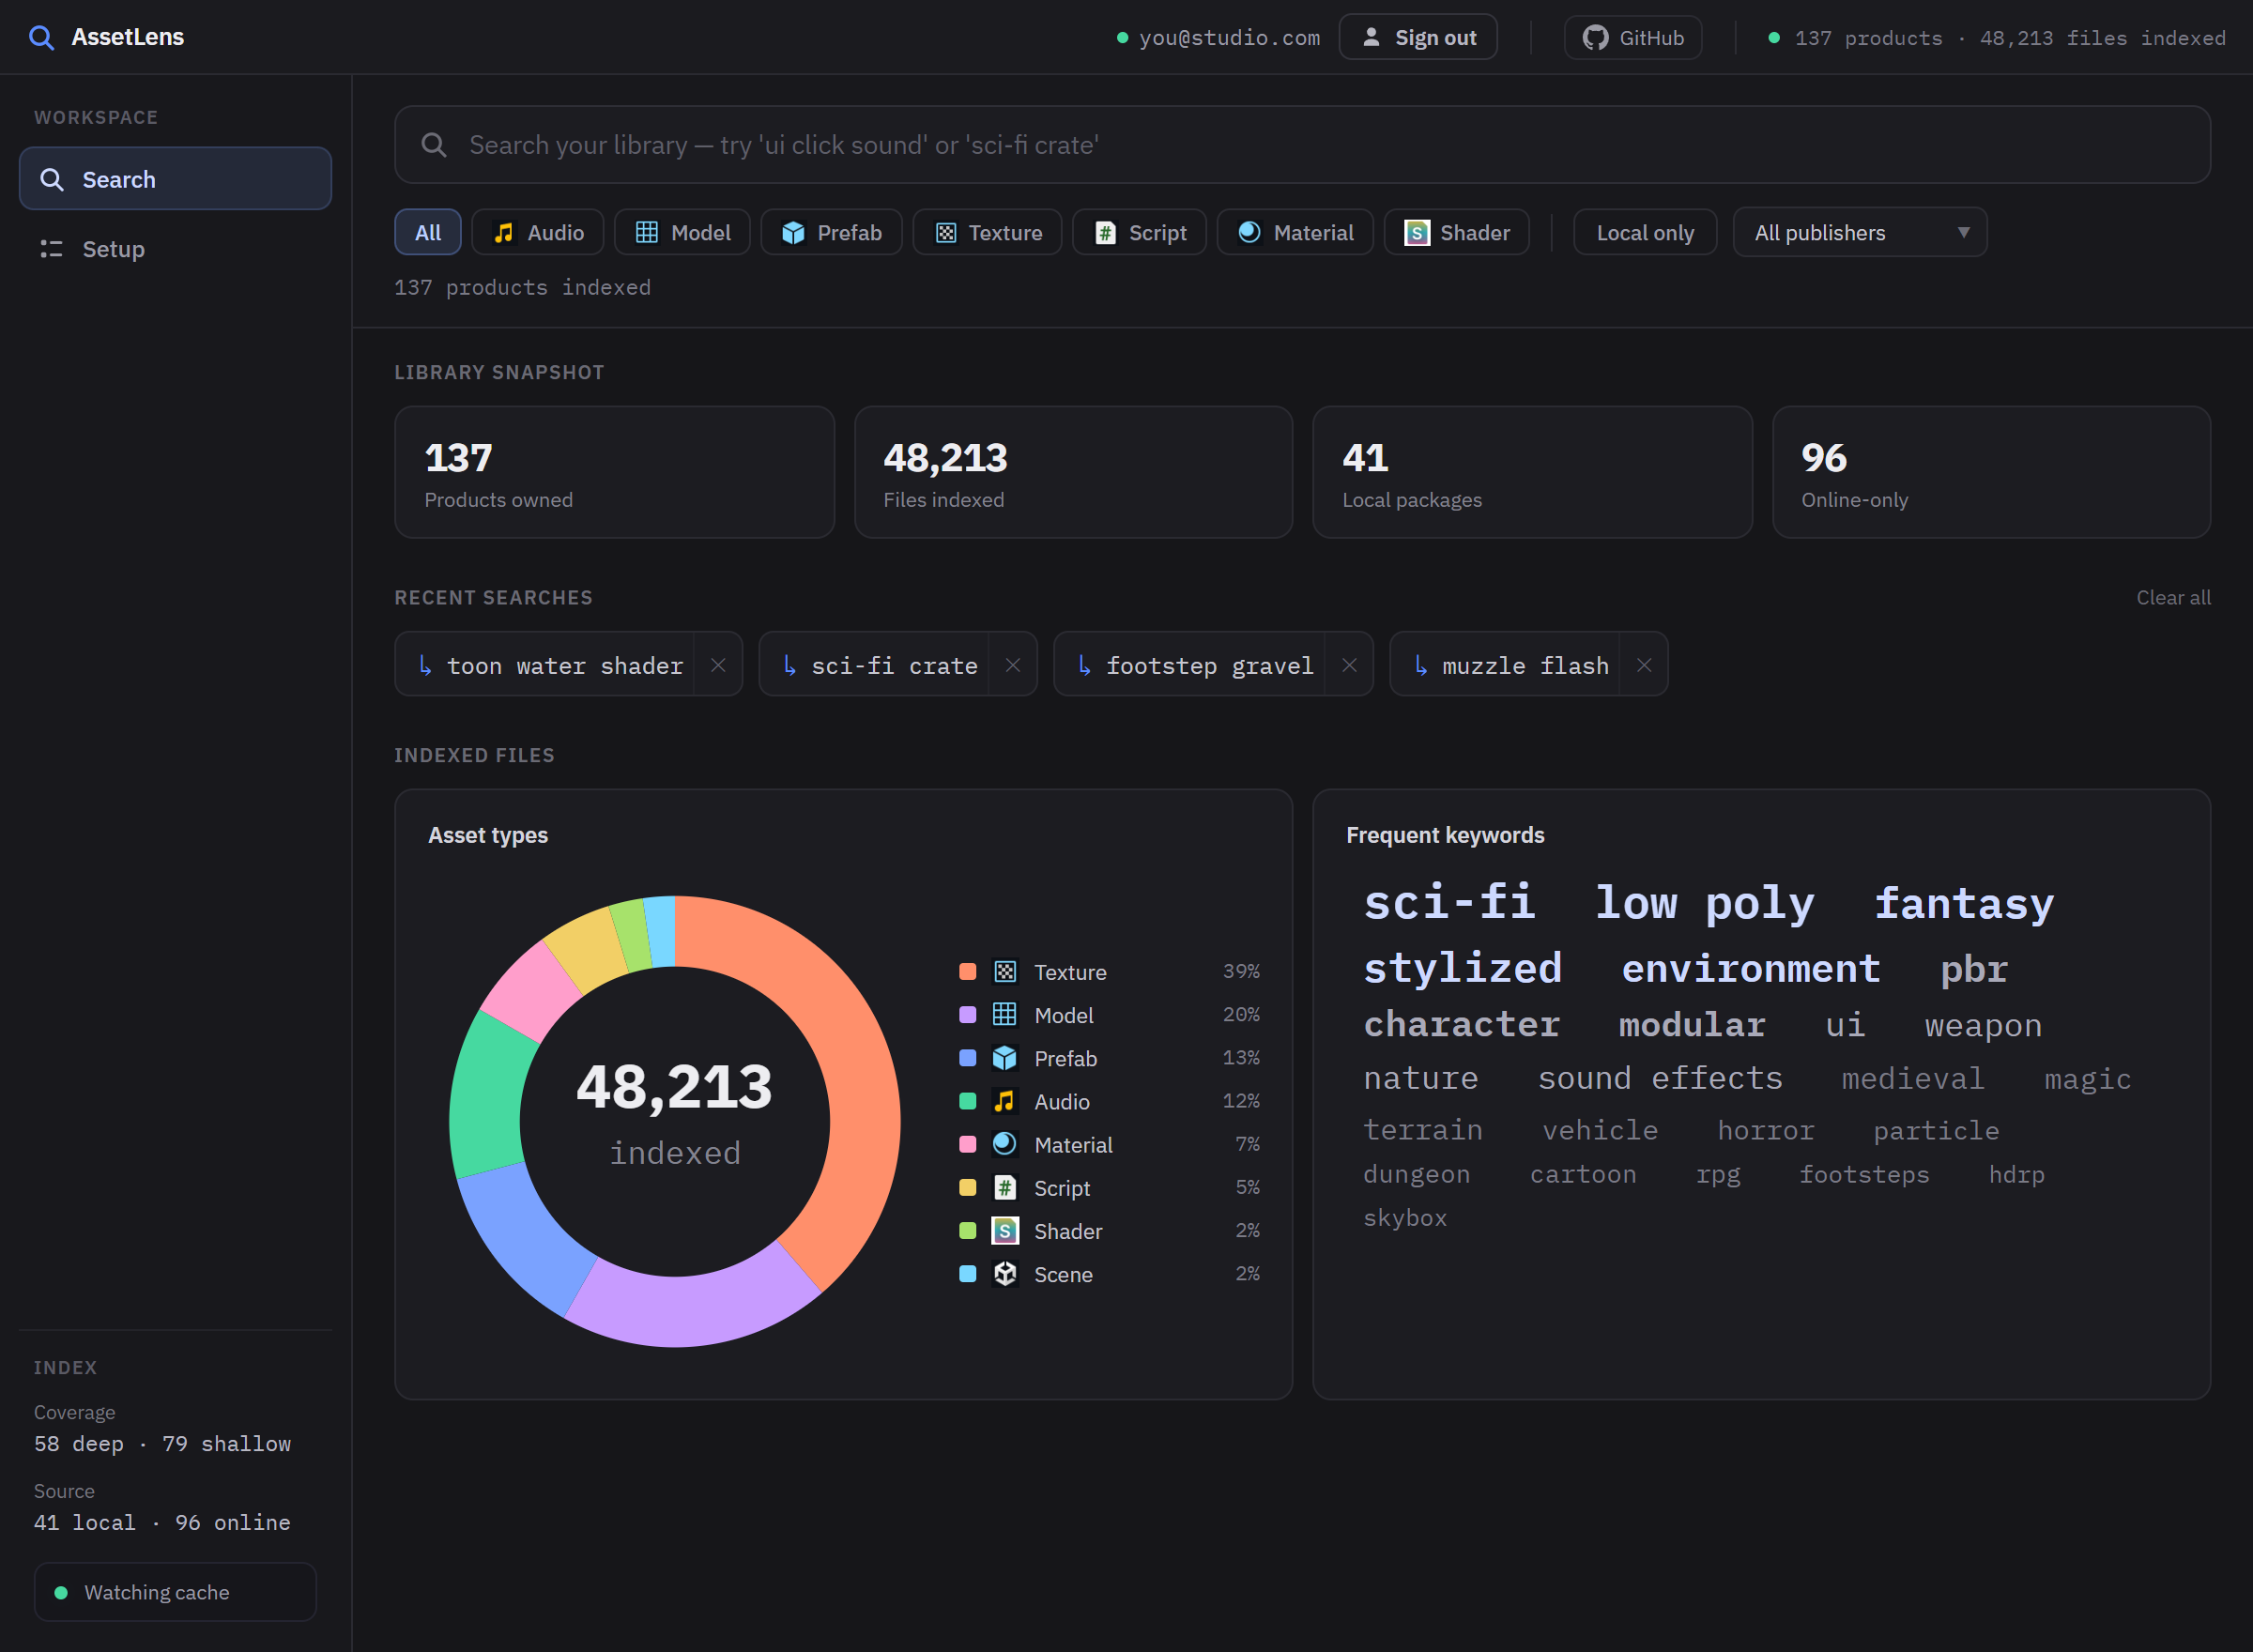
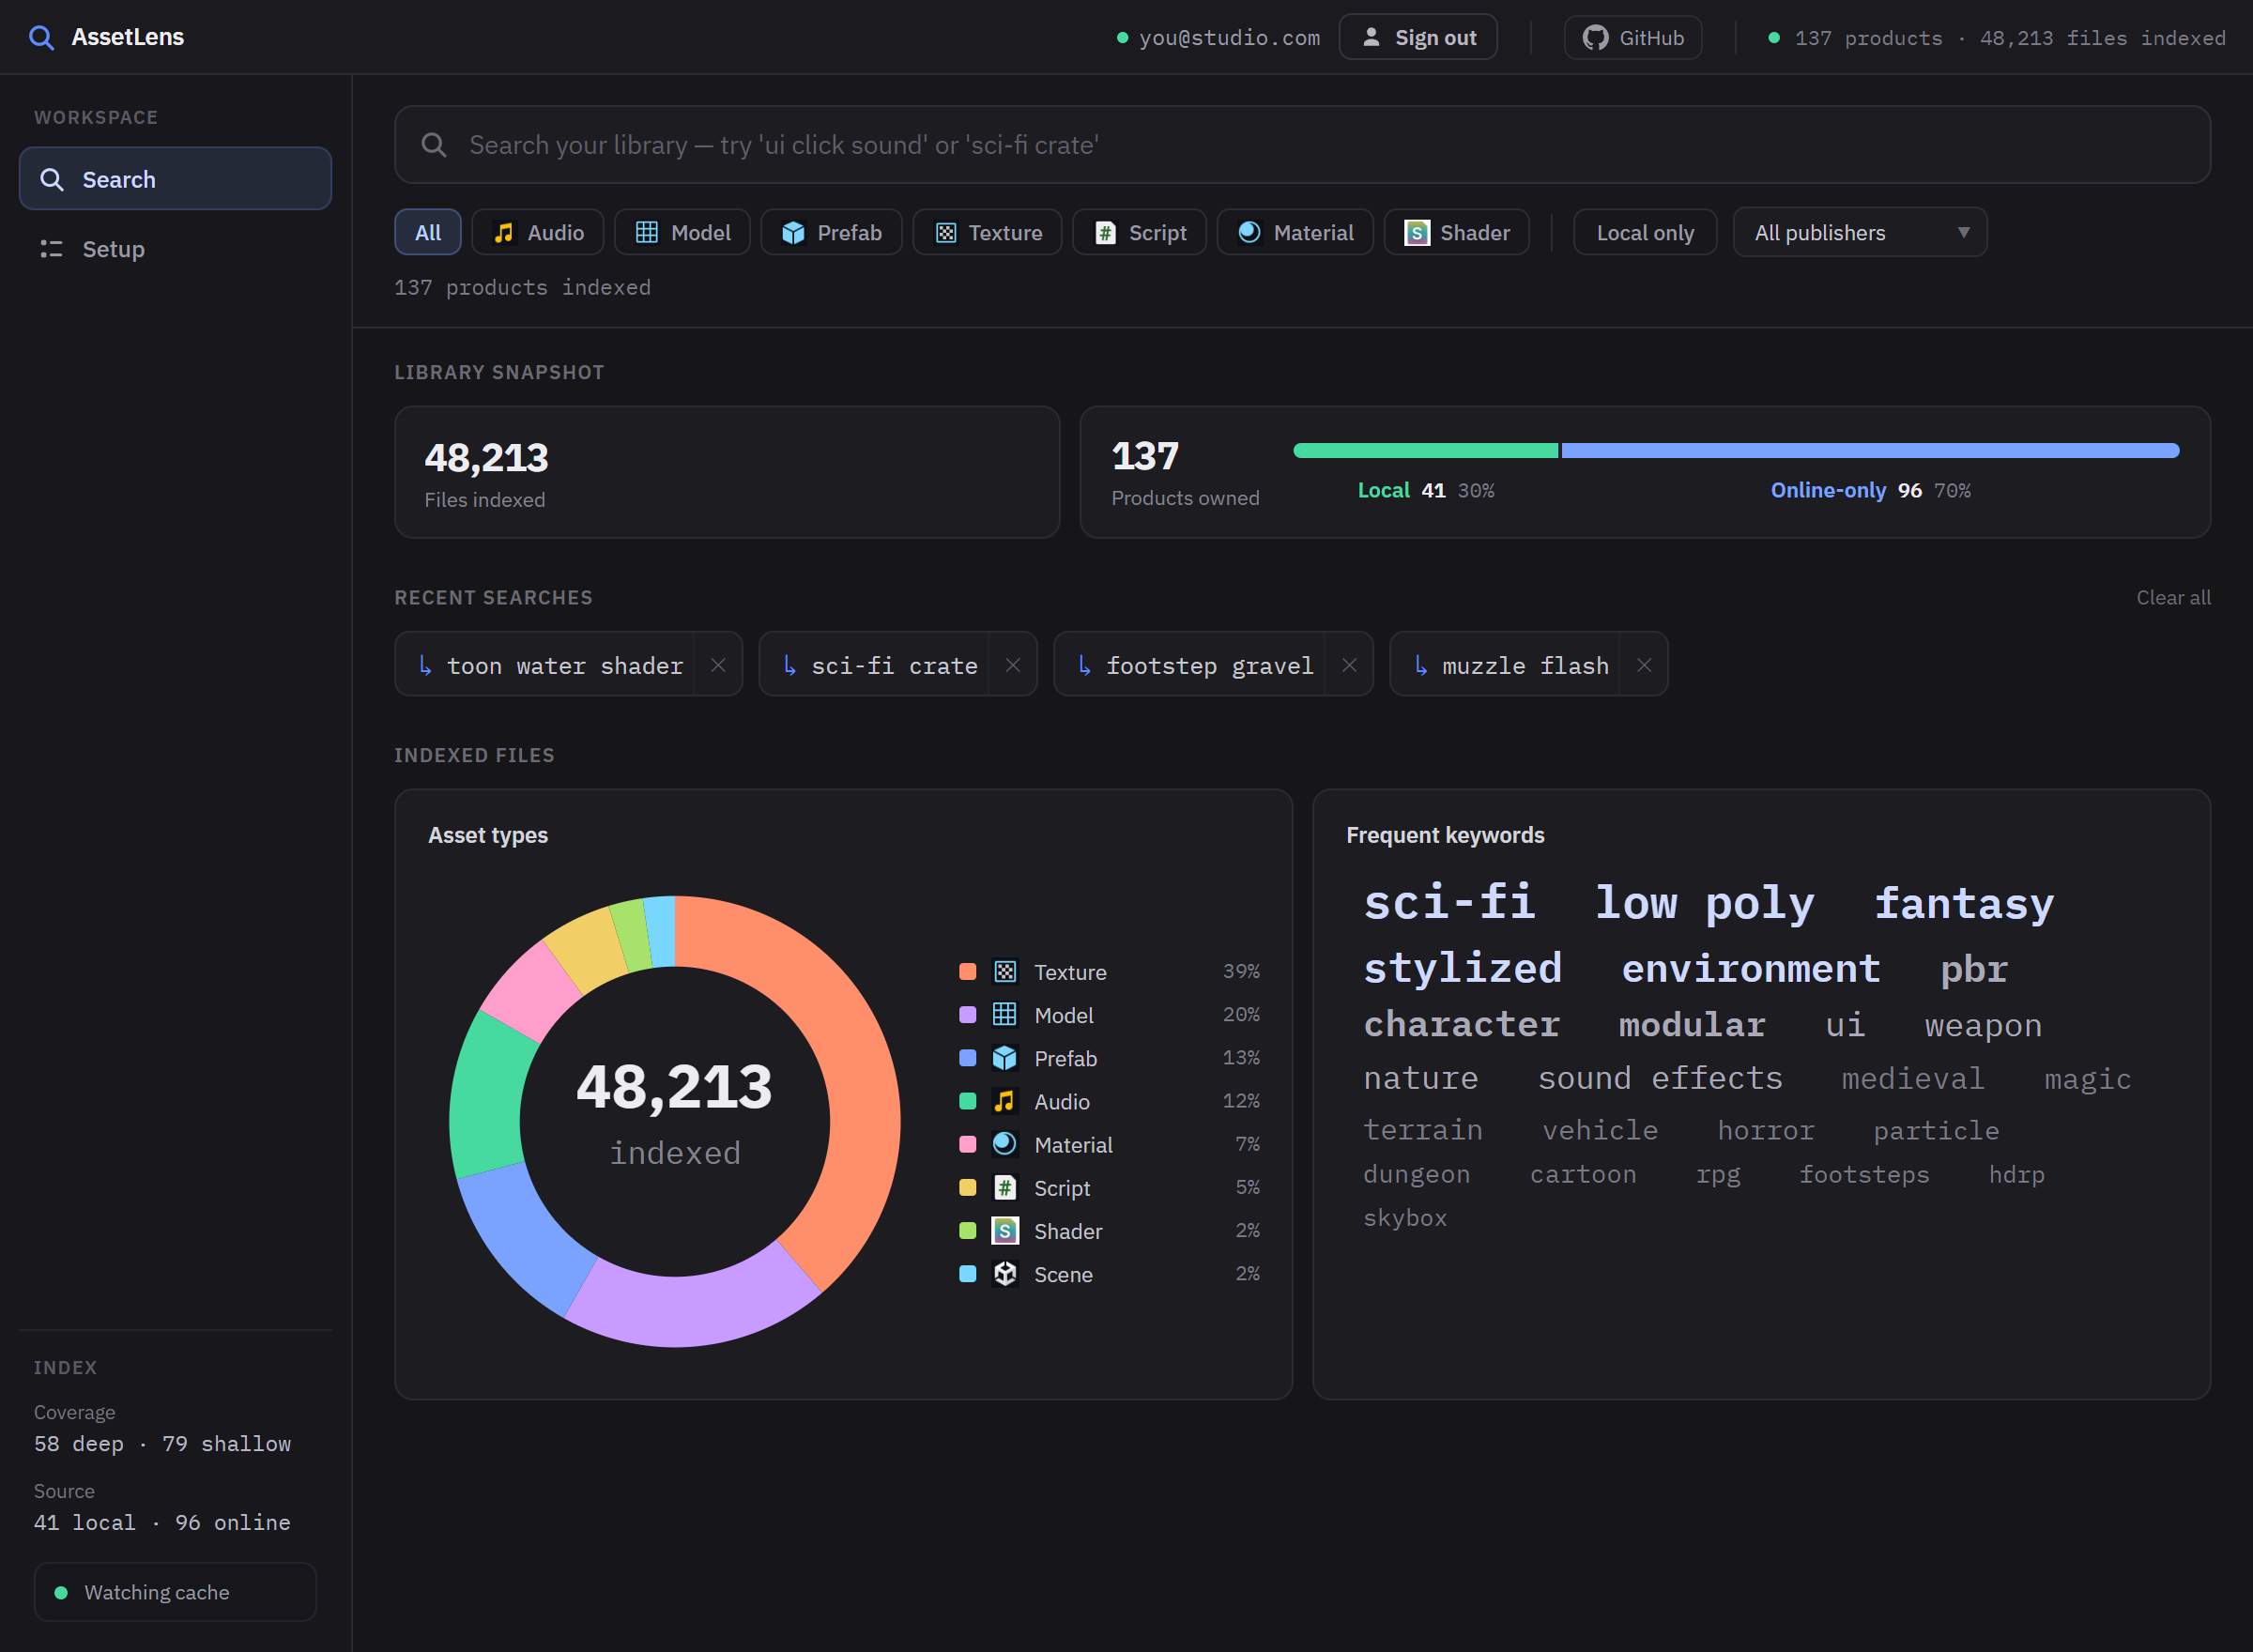
feat: redesign library snapshot with products owned breakdown bar
Lead with files indexed, then a single Products owned card split into
local vs. online-only with a proportional bar and per-segment counts and
percentages. Regenerate README screenshots and refresh the caption.

diff --git a/web/js/views/overview.js b/web/js/views/overview.js
@@ -11,25 +11,72 @@ function sectionLabel(text, marginTop) {
   );
 }
 
-function statTiles(stats) {
-  const s2 = stats || { products: 0, files: 0, localProducts: 0, onlineProducts: 0 };
-  const tiles = [
-    { value: formatInt(s2.products), label: "Products owned" },
-    { value: formatInt(s2.files), label: "Files indexed" },
-    { value: formatInt(s2.localProducts), label: "Local packages" },
-    { value: formatInt(s2.onlineProducts), label: "Online-only" },
-  ];
+const LOCAL_COLOR = "#46d9a0"; // green — downloaded / on disk
+const ONLINE_COLOR = "#7aa2ff"; // blue — owned in catalog, not downloaded
+
+function pct(n, total) {
+  return total ? Math.round((n / total) * 100) : 0;
+}
+
+function filesCard(files) {
   return h(
     "div",
-    { style: { display: "grid", gridTemplateColumns: "repeat(4,1fr)", gap: "10px" } },
-    ...tiles.map((t) =>
+    { style: { background: "#1c1c21", border: "1px solid #2a2a31", borderRadius: "10px", padding: "13px 15px", display: "flex", flexDirection: "column", justifyContent: "center" } },
+    h("div", { style: { fontSize: "1.375rem", fontWeight: 700, color: "#ededf1", letterSpacing: "-0.5px" } }, formatInt(files)),
+    h("div", { style: { fontSize: "0.7188rem", color: "#83838f", marginTop: "2px" } }, "Files indexed"),
+  );
+}
+
+function segmentLabel(seg, total) {
+  return h(
+    "div",
+    { style: { flex: `${seg.count} 1 0`, minWidth: 0, display: "flex", alignItems: "baseline", justifyContent: "center", gap: "6px", overflow: "hidden", whiteSpace: "nowrap" } },
+    h("span", { style: { fontSize: "0.75rem", fontWeight: 600, color: seg.color, overflow: "hidden", textOverflow: "ellipsis" } }, seg.label),
+    h("span", { style: { fontFamily: MONO, fontSize: "0.7188rem", color: "#ededf1", fontWeight: 600 } }, formatInt(seg.count)),
+    h("span", { style: { fontFamily: MONO, fontSize: "0.7188rem", color: "#7a7a85" } }, pct(seg.count, total) + "%"),
+  );
+}
+
+function productsCard(stats) {
+  const s2 = stats || { products: 0, localProducts: 0, onlineProducts: 0 };
+  const total = s2.products;
+  const segs = [
+    { label: "Local", count: s2.localProducts, color: LOCAL_COLOR },
+    { label: "Online-only", count: s2.onlineProducts, color: ONLINE_COLOR },
+  ].filter((seg) => seg.count > 0);
+  return h(
+    "div",
+    { style: { background: "#1c1c21", border: "1px solid #2a2a31", borderRadius: "10px", padding: "14px 16px", display: "flex", alignItems: "center", gap: "18px" } },
+    h(
+      "div",
+      { style: { flexShrink: 0 } },
+      h("div", { style: { fontSize: "1.375rem", fontWeight: 700, color: "#ededf1", letterSpacing: "-0.5px", lineHeight: "1.15" } }, formatInt(total)),
+      h("div", { style: { fontSize: "0.7188rem", color: "#83838f", marginTop: "2px" } }, "Products owned"),
+    ),
+    h(
+      "div",
+      { style: { flex: "1", minWidth: 0 } },
       h(
         "div",
-        { style: { background: "#1c1c21", border: "1px solid #2a2a31", borderRadius: "10px", padding: "13px 15px" } },
-        h("div", { style: { fontSize: "1.375rem", fontWeight: 700, color: "#ededf1", letterSpacing: "-0.5px" } }, t.value),
-        h("div", { style: { fontSize: "0.7188rem", color: "#83838f", marginTop: "2px" } }, t.label),
+        { style: { display: "flex", gap: "2px", height: "8px", borderRadius: "5px", overflow: "hidden", background: "#232329" } },
+        ...segs.map((seg) => h("div", { style: { flex: `${seg.count} 1 0`, background: seg.color } })),
+      ),
+      h(
+        "div",
+        { style: { display: "flex", gap: "2px", marginTop: "9px" } },
+        ...segs.map((seg) => segmentLabel(seg, total)),
       ),
     ),
+  );
+}
+
+function statTiles(stats) {
+  const s2 = stats || { products: 0, files: 0, localProducts: 0, onlineProducts: 0 };
+  return h(
+    "div",
+    { style: { display: "grid", gridTemplateColumns: "minmax(0,1fr) minmax(0,1.7fr)", gap: "10px" } },
+    filesCard(s2.files),
+    productsCard(s2),
   );
 }
 

diff --git a/README.md b/README.md
@@ -63,7 +63,7 @@ whenever your library changes.
 online-only, an asset-type breakdown, and a keyword cloud where any word is a
 one-click search.
 
-![Library snapshot — stat tiles, asset-type donut, and keyword cloud](docs/img/snapshot.png)
+![Library snapshot — files indexed, a local vs. online-only products breakdown, asset-type donut, and keyword cloud](docs/img/snapshot.png)
 
 **3 · Search & act** — type a query for results grouped by product (shown at the
 top of this page). Filter by type, publisher, or "downloaded only". Then, per